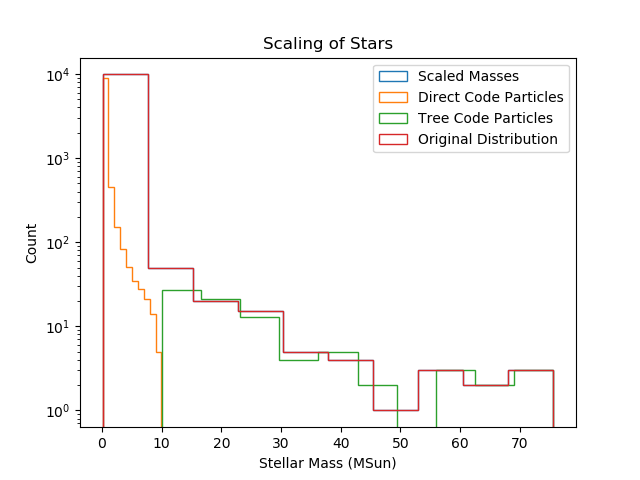
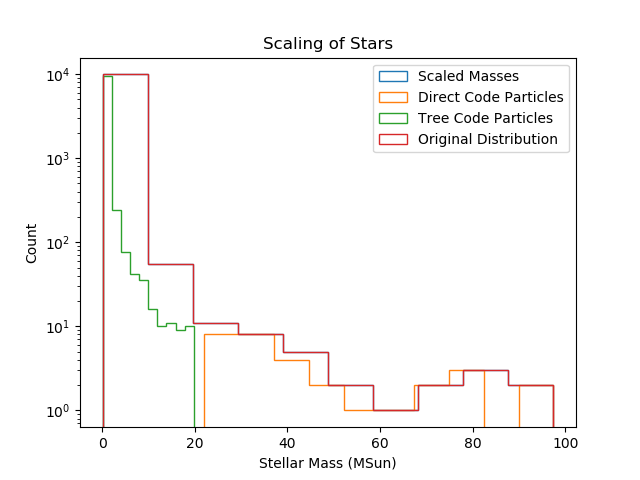
New seed and options

diff --git a/assignment_three/HybridGravity.py b/assignment_three/HybridGravity.py
@@ -281,7 +281,7 @@ class HybridGravity(object):
                                                                        "Radius_{}_Cut_{}_Flip_{}_Stars_{}_"
                                                                        "Timestep_{}_EndTime_{}.hdf".format(self.input_args['direct_code'],
                                                                                                          self.input_args['tree_code'],
-                                                                                                         self.combined_gravity.particles.mass.sum(),
+                                                                                                         self.combined_gravity.particles.mass.sum().value_in(units.MSun),
                                                                                                          self.input_args['virial_radius'],
                                                                                                          self.input_args['mass_cut'],
                                                                                                          str(self.input_args['flip_split']),
@@ -292,7 +292,7 @@ class HybridGravity(object):
                                             "Radius_{}_Cut_{}_Flip_{}_Stars_{}_"
                                             "Timestep_{}_EndTime_{}.p".format(self.input_args['direct_code'],
                                                                               self.input_args['tree_code'],
-                                                                              self.combined_gravity.particles.mass.sum(),
+                                                                              self.combined_gravity.particles.mass.sum().value_in(units.MSun),
                                                                               self.input_args['virial_radius'],
                                                                               self.input_args['mass_cut'],
                                                                               str(self.input_args['flip_split']),

diff --git a/assignment_three/combined_nbody.py b/assignment_three/combined_nbody.py
@@ -209,6 +209,8 @@ def get_args():
                     help="Whether to use the converter from nbody units to physical units, with units 1 MSun, 1 kpc, defaults to True")
     ap.add_argument("-w", "--workers", required=False, default=1, type=int,
                     help="Number of workers each gravity code should use.")
+    ap.add_argument("-s", "--seed", required=False, default=5227, type=int,
+                    help="Seed for random numbers")
 
     args_dict = vars(ap.parse_args())
 
@@ -249,7 +251,7 @@ def plot_sanity_checks(all_particles, direct_code_particles=None, tree_code_part
 
 if __name__ in ('__main__', '__plot__'):
     args = get_args()
-    np.random.seed(1337) # Set for reproducability
+    np.random.seed(args['seed']) # Set for reproducability
     print(args)
     mZAMS = new_powerlaw_mass_distribution(args['num_bodies'], 0.1 | units.MSun, 100 | units.MSun, alpha=-2.0)
     cluster_mass = mZAMS.sum() # (args['num_bodies']) | units.MSun
@@ -306,7 +308,6 @@ if __name__ in ('__main__', '__plot__'):
     # plt.show()
     # exit()
     # set_standard scale to rescale it
-
     gravity = HybridGravity(direct_code=args['direct_code'],
                             tree_code=args['tree_code'],
                             mass_cut=args['mass_cut'] | units.MSun,
